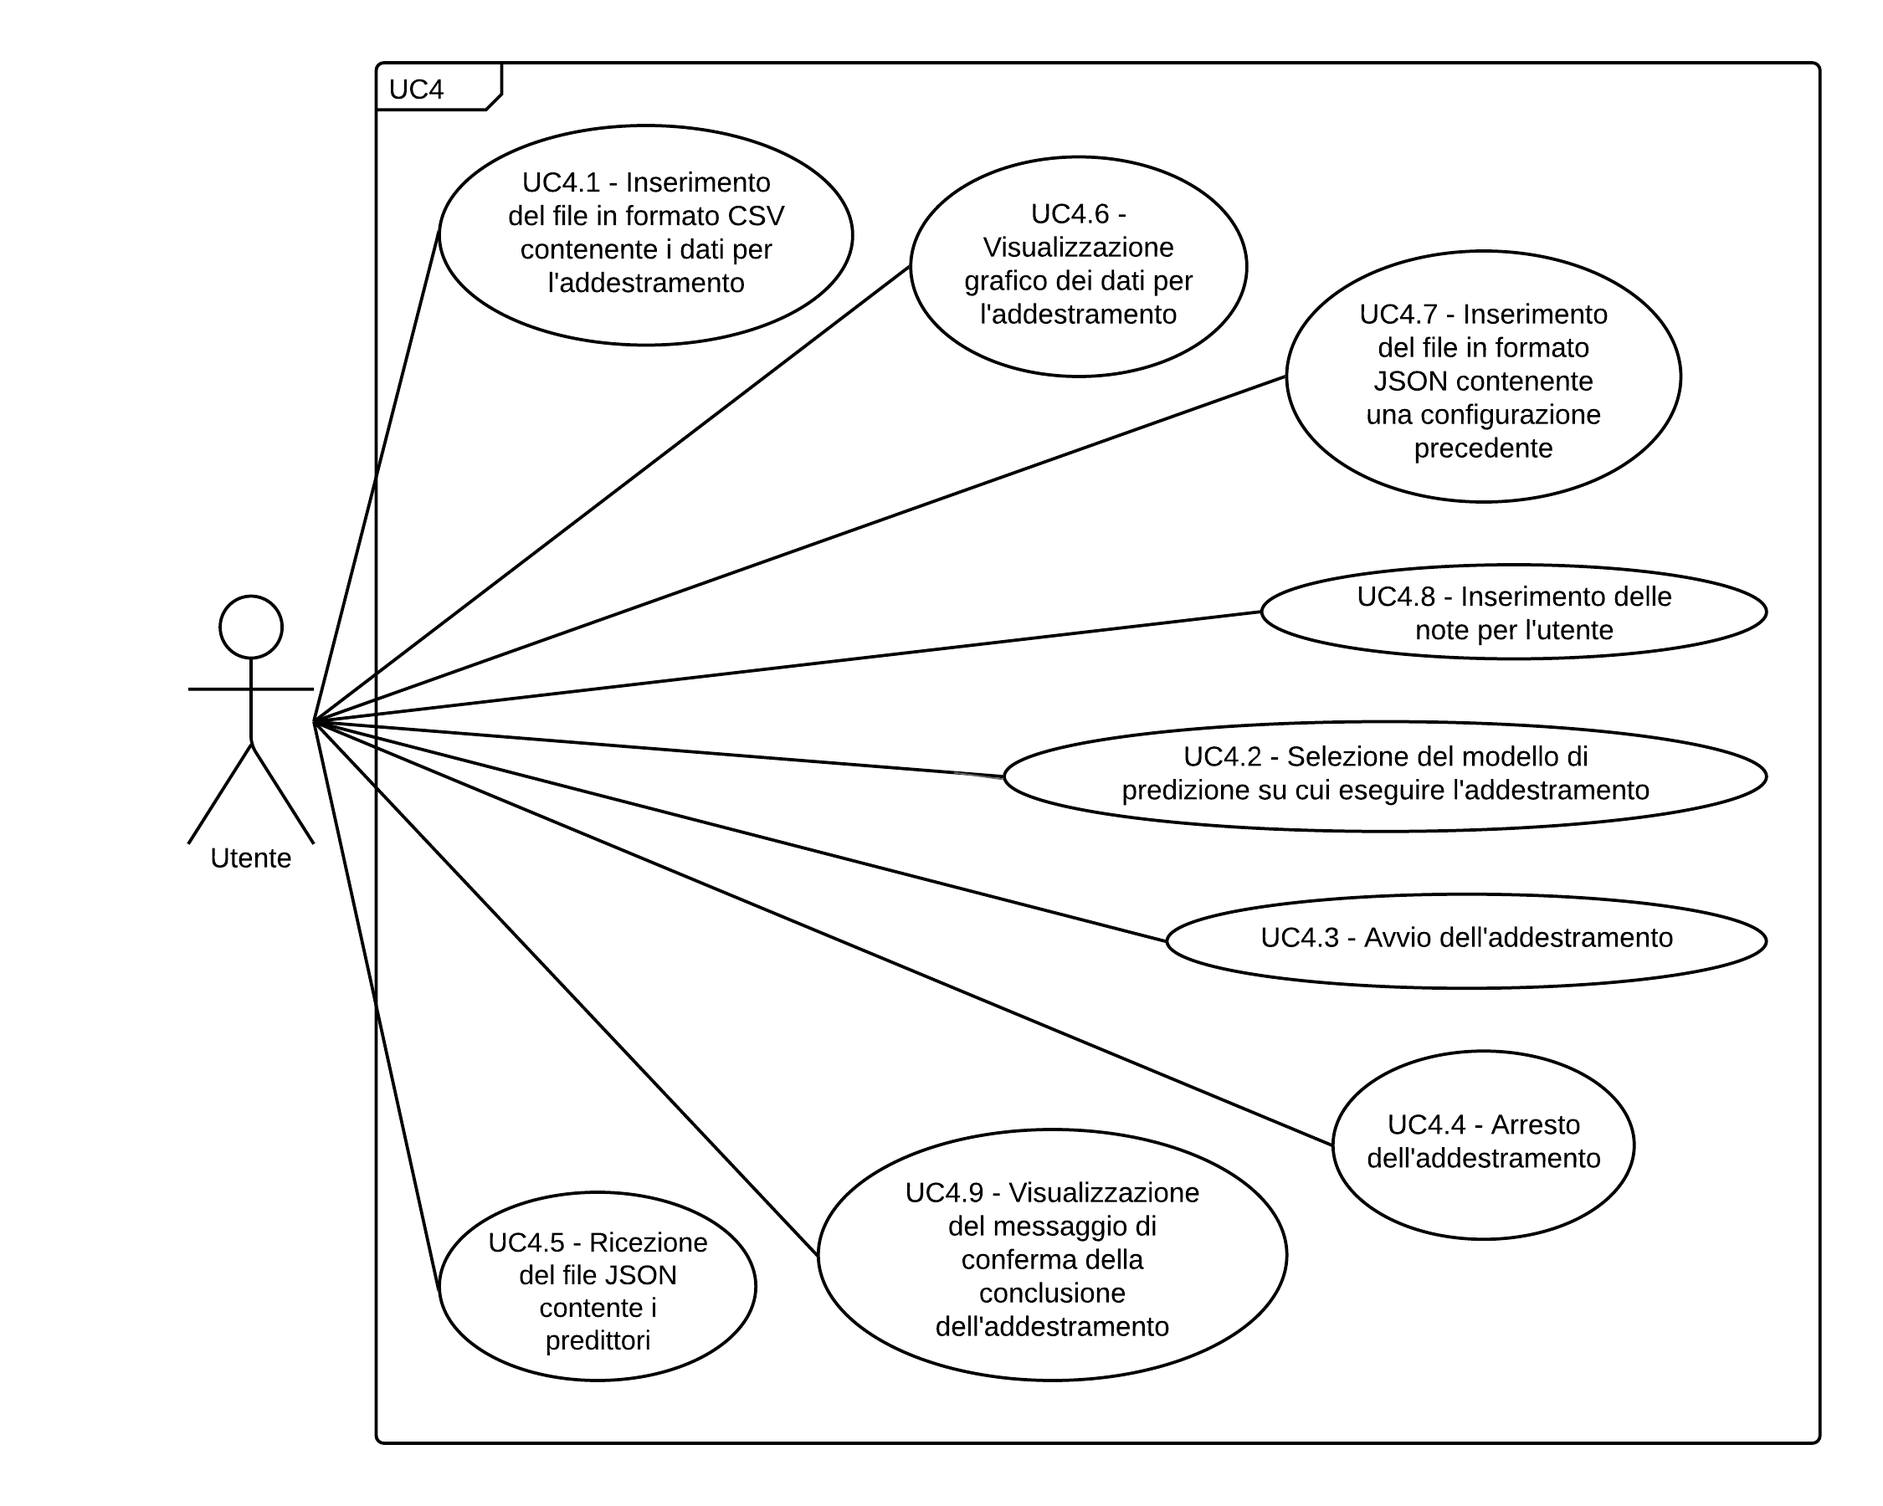
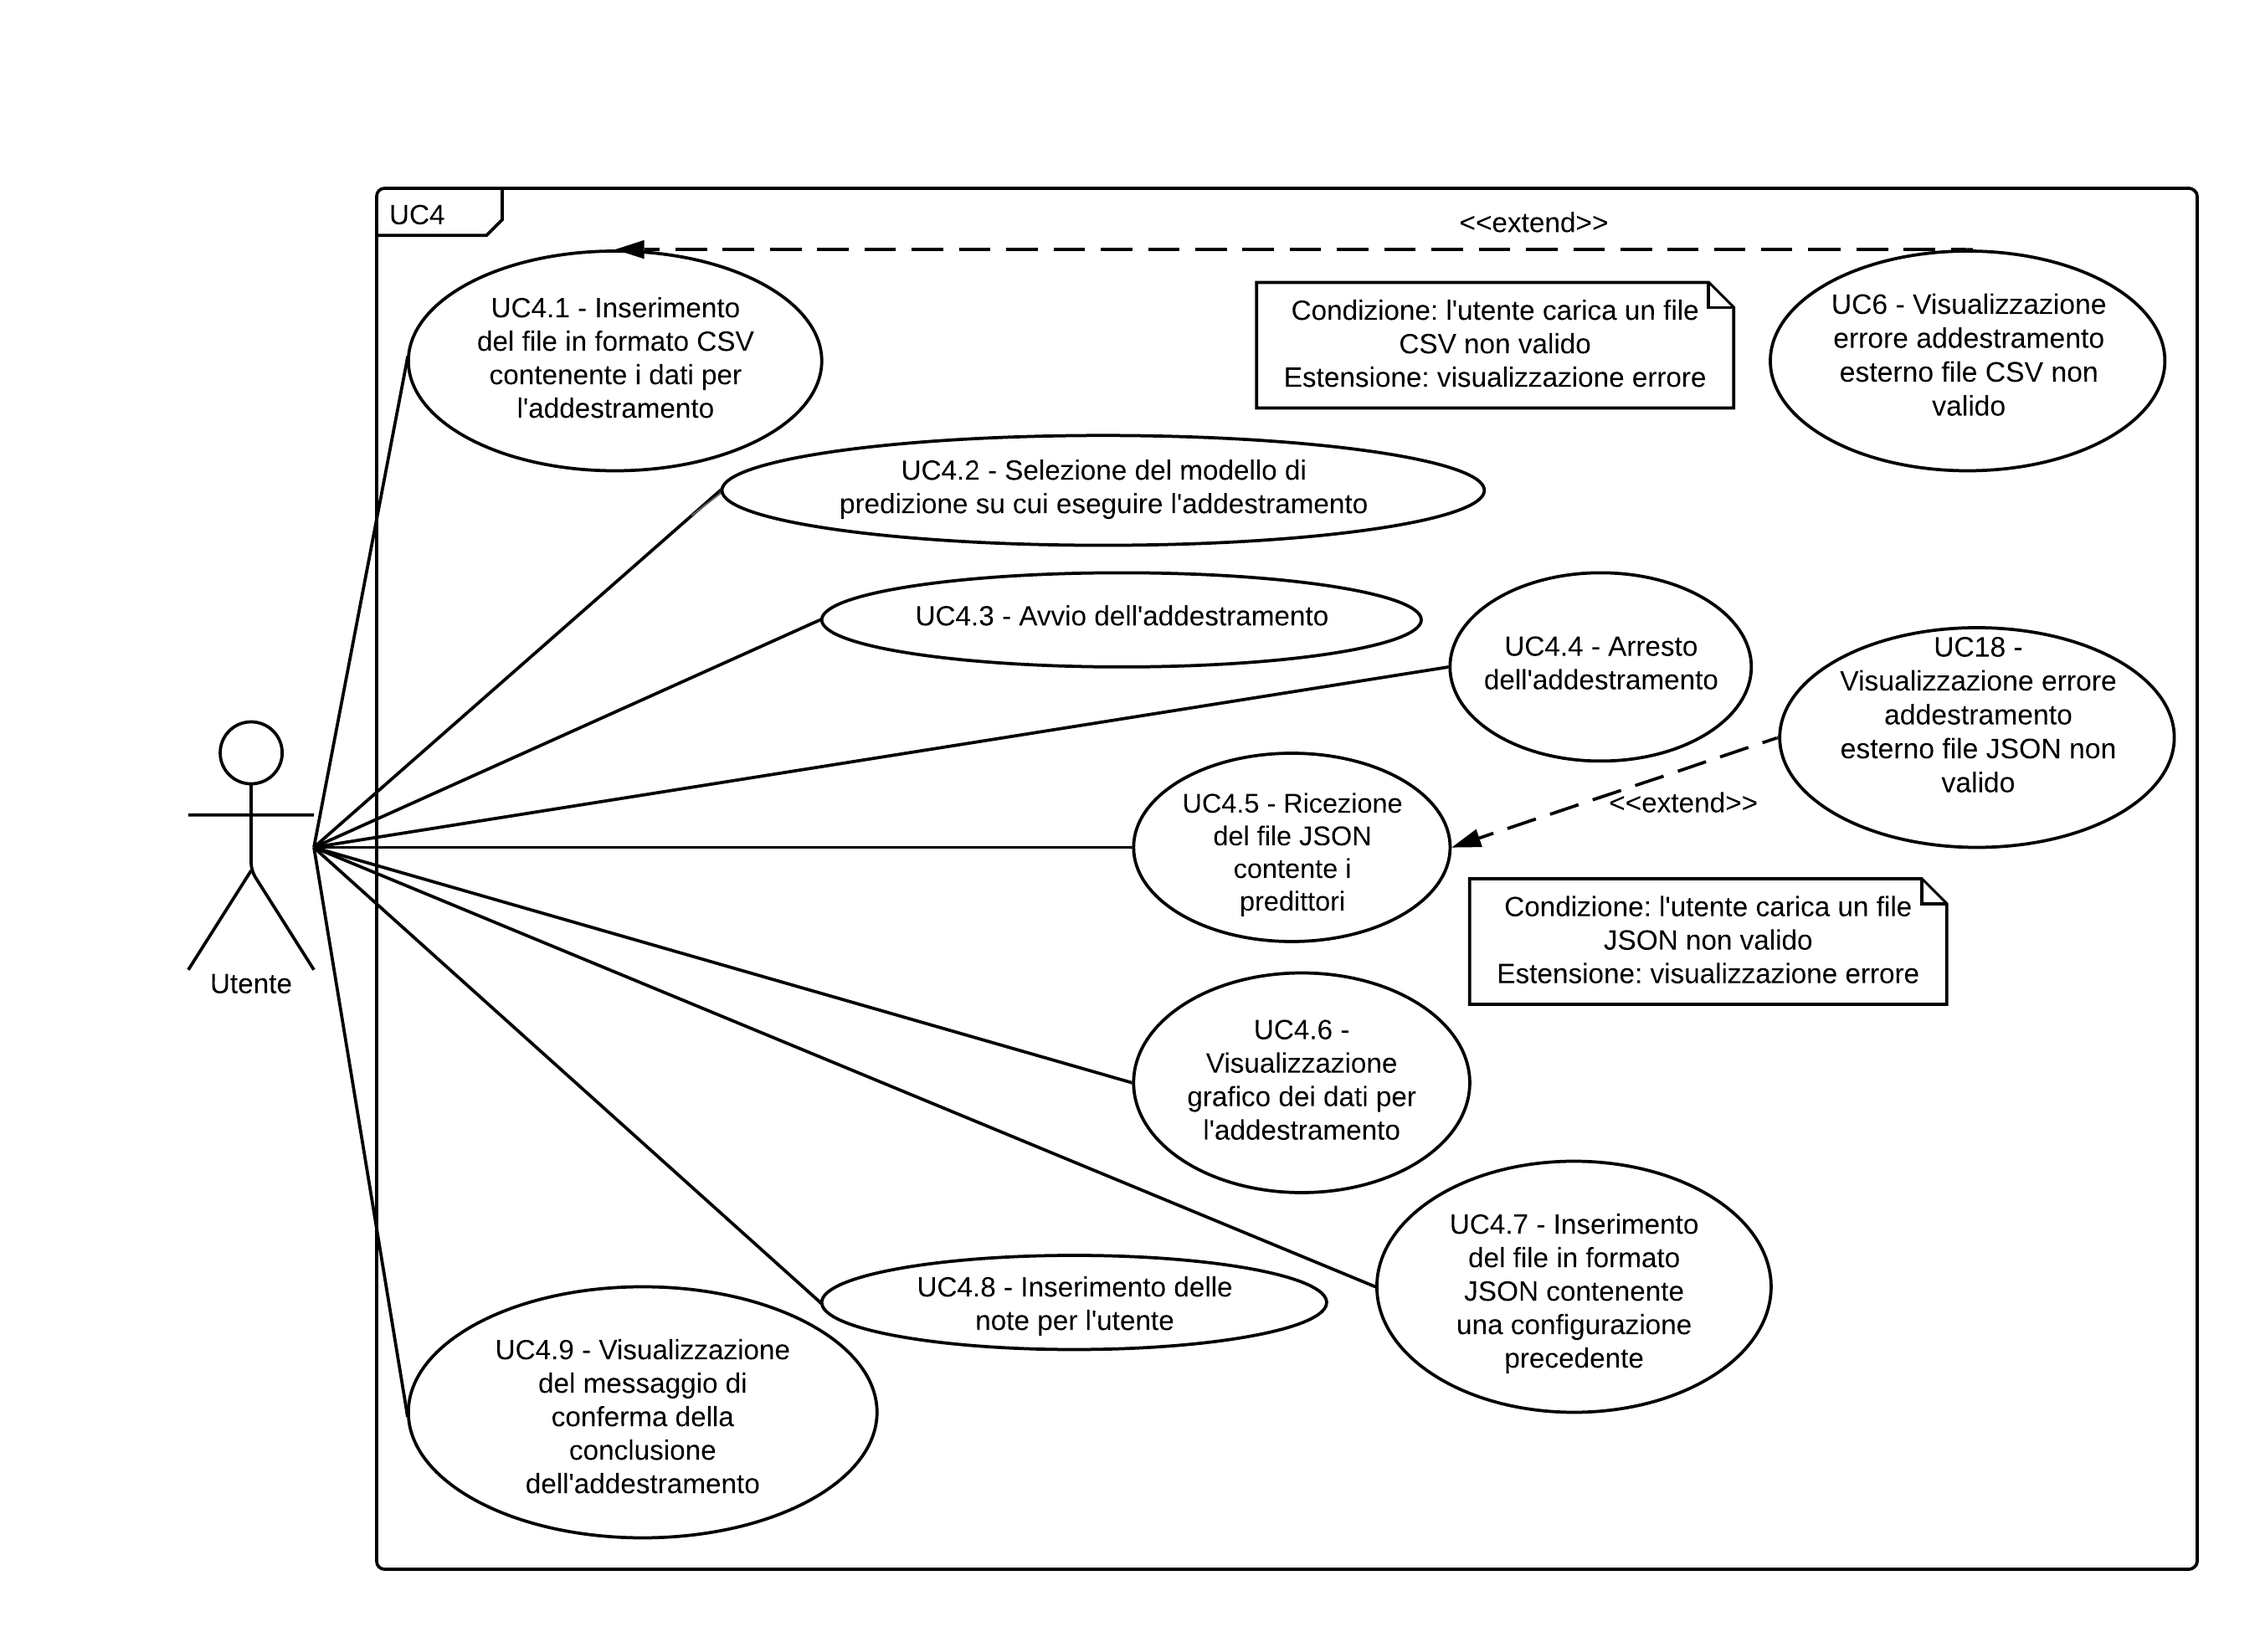
Fix ordine ed estensioni uc 1 e 4

diff --git a/03-RQ/Esterni/Analisi_dei_requisiti/res/uc4-addestramento_esterno.tex b/03-RQ/Esterni/Analisi_dei_requisiti/res/uc4-addestramento_esterno.tex
@@ -27,11 +27,6 @@
             \item ricezione del file JSON contenente i predittori (UC4.5);
             \item visualizzazione del messaggio di conferma della conclusione dell'addestramento (UC4.9). 
         \end{enumerate}
-    \item \textbf{Estensioni}:
-	    \begin{enumerate}
-	    	\item se il caricamento del file CSV non è avvenuto con successo viene visualizzato un messaggio di errore (UC18);
-	    	\item se il caricamento del file JSON non è avvenuto con successo viene visualizzato un messaggio di errore (UC6).
-	    \end{enumerate}
 \end{itemize}
 
 \subsubsection{UC4.1 - Inserimento del file in formato CSV contenente i dati per l'addestramento}
@@ -42,7 +37,11 @@
     \item \textbf{Descrizione}: l'utente inserisce un file in formato CSV contenente i dati per l'addestramento nell'applicazione esterna;
     \item \textbf{Precondizioni}: l'utente è autenticato nel sistema software Grafana\glo;
     \item \textbf{Postcondizioni}: l'utente ha inserito correttamente il file in formato CSV contenente i dati per l'addestramento;
-    \item \textbf{Scenario principale}: l'utente inserisce il file in formato CSV contenente i dati per l'addestramento.
+    \item \textbf{Scenario principale}: l'utente inserisce il file in formato CSV contenente i dati per l'addestramento;
+    \item \textbf{Estensioni}:
+	\begin{enumerate}
+		\item se il caricamento del file CSV non è avvenuto con successo viene visualizzato un messaggio di errore (UC6);
+	\end{enumerate}
 \end{itemize}
 
 \subsubsection{UC4.2 - Selezione del modello di predizione su cui eseguire l'addestramento}
@@ -55,10 +54,10 @@
 	\item \textbf{Postcondizioni}: il modello di predizione è stato selezionato correttamente;
 	\item \textbf{Scenario principale}: l'utente seleziona un modello di predizione su cui eseguire l'addestramento tra SVM\glosp e RL\glo;
 	\item \textbf{Specializzazione}:
-	\begin{itemize}
+	\begin{enumerate}
 		\item selezione del modello di predizione SVM\glosp (UC4.10);
 		\item selezione del modello di predizione RL\glosp (UC4.11).
-	\end{itemize}   
+	\end{enumerate}   
 \end{itemize}
 
 \subsubsection{UC4.3 - Avvio dell'addestramento}
@@ -112,7 +111,11 @@
 	\item \textbf{Descrizione}: l'utente inserisce nell'applicazione esterna un file in formato JSON che contiene i dati di una configurazione per addestrare nuovamente l'algoritmo di predizione partendo con una configurazione precedente;
 	\item \textbf{Precondizioni}: l'utente è autenticato nel sistema software Grafana\glo;
 	\item \textbf{Postcondizioni}: il file in formato JSON contenente una configurazione precedente è stato inserito correttamente;
-	\item \textbf{Scenario principale}: l'utente inserisce il file in formato JSON contenente una configurazione precedente.
+	\item \textbf{Scenario principale}: l'utente inserisce il file in formato JSON contenente una configurazione precedente;
+	\item \textbf{Estensioni}:
+	\begin{enumerate}
+		\item se il caricamento del file JSON non è avvenuto con successo viene visualizzato un messaggio di errore (UC18);
+	\end{enumerate}
 \end{itemize}
 \subsubsection{UC4.8 - Inserimento delle note per l'utente}
 \begin{itemize}

diff --git a/03-RQ/Esterni/Analisi_dei_requisiti/res/uc1-addestramento_interno.tex b/03-RQ/Esterni/Analisi_dei_requisiti/res/uc1-addestramento_interno.tex
@@ -27,11 +27,6 @@
 			\item arresto dell'addestramento (UC1.4);
 			\item visualizzazione del messaggio di conferma della conclusione dell'addestramento (UC1.8).
 		\end{enumerate}
-	\item \textbf{Estensioni}:
-	\begin{itemize}
-		\item se il caricamento del file CSV non è avvenuto con successo, viene visualizzato un messaggio di errore (UC17);
-		\item se il caricamento del file JSON non è avvenuto con successo, viene visualizzato un messaggio di errore (UC3).
-	\end{itemize}
 \end{itemize}
 
 \subsubsection{UC1.1 - Inserimento del file in formato CSV contenente i dati per l'addestramento}
@@ -43,7 +38,11 @@
 	\item \textbf{Descrizione}: l'utente inserisce nel sistema Grafana\glosp il file in formato CSV che contiene dati per l'addestramento dell'algoritmo di predizione;
 	\item \textbf{Precondizioni}: l'utente è autenticato nel sistema software Grafana\glo;
 	\item \textbf{Postcondizioni}: il file in formato CSV contenente i dati per l'addestramento è stato inserito correttamente;
-	\item \textbf{Scenario principale}: l'utente inserisce il file in formato CSV contenente i dati per l'addestramento.
+	\item \textbf{Scenario principale}: l'utente inserisce il file in formato CSV contenente i dati per l'addestramento;
+	\item \textbf{Estensioni}:
+	\begin{enumerate}
+		\item se il caricamento del file CSV non è avvenuto con successo, viene visualizzato un messaggio di errore (UC3).
+	\end{enumerate}
 \end{itemize}
 
 \subsubsection{UC1.2 - Selezione del modello di predizione su cui eseguire l'addestramento}
@@ -57,10 +56,10 @@
 	\item \textbf{Postcondizioni}: l'utente ha selezionato correttamente il modello di predizione;
 	\item \textbf{Scenario principale}: l'utente seleziona un modello di predizione per eseguire l'addestramento tra SVM\glosp e RL\glo;
 	\item \textbf{Specializzazione}:
-	\begin{itemize}
+	\begin{enumerate}
 		\item selezione del modello di predizione SVM\glosp (UC1.9);
 		\item selezione del modello di predizione RL\glosp (UC1.10).
-	\end{itemize}
+	\end{enumerate}
 \end{itemize}
 
 \subsubsection{UC1.3 - Avvio dell'addestramento}
@@ -106,7 +105,11 @@
 	\item \textbf{Descrizione}: l'utente inserisce nel sistema Grafana\glosp un file JSON che contiene i dati di una configurazione precedente per addestrare nuovamente l'algoritmo di predizione;
 	\item \textbf{Precondizioni}: l'utente è autenticato nel sistema software Grafana\glo;
 	\item \textbf{Postcondizioni}: il file in formato JSON contenente una configurazione precedente è stato inserito correttamente;
-	\item \textbf{Scenario principale}: l'utente inserisce il file in formato JSON contenente una configurazione precedente.
+	\item \textbf{Scenario principale}: l'utente inserisce il file in formato JSON contenente una configurazione precedente;
+	\item \textbf{Estensioni}:
+	\begin{enumerate}
+		\item se il caricamento del file JSON non è avvenuto con successo, viene visualizzato un messaggio di errore (UC17).
+	\end{enumerate}
 \end{itemize}
 \subsubsection{UC1.7 - Inserimento delle note per l'utente}
 \begin{itemize}

diff --git a/03-RQ/Esterni/Analisi_dei_requisiti/res/uc9-associazione-nodi-flusso-dati.tex b/03-RQ/Esterni/Analisi_dei_requisiti/res/uc9-associazione-nodi-flusso-dati.tex
@@ -12,16 +12,12 @@
 	\item \textbf{Precondizioni}: l'utente è autenticato nel sistema software Grafana\glo, ha avviato il plug-in e ha caricato il file JSON con i dati di addestramento;
 	\item \textbf{Postcondizioni}: i predittori\glosp sono stati associati al flusso dati con successo;
 	\item \textbf{Scenario principale}: 
-		\begin{itemize}
+		\begin{enumerate}
 			\item selezione del predittore\glosp (UC9.1);
 			\item selezione del flusso dati (UC9.2);
 			\item collegamenti del predittore\glosp al flusso dati (UC9.3);
 			\item visualizzazione conferma collegamento del predittore\glosp al flusso dati (UC9.4).
-		\end{itemize}
-	\item \textbf{Estensioni}:
-		\begin{itemize}
-			\item se l'utente crea un abbinamento non valido tra un predittore\glosp ed il flusso dati viene visualizzato un messaggio di errore (UC10).
-		\end{itemize}
+		\end{enumerate}
 \end{itemize}
 
 \subsubsection{UC9.1 - Selezione del predittore}
@@ -57,7 +53,11 @@
 	\item \textbf{Descrizione}: l'utente esegue il collegamento del predittore\glosp al flusso dati;
 	\item \textbf{Precondizioni}: l'utente ha avviato correttamente il plug-in, ha selezionato il predittore\glosp ed il flusso dati;
 	\item \textbf{Postcondizioni}: l'utente ha collegato correttamente il predittore\glosp al flusso dati;
-	\item \textbf{Scenario principale}: l'utente seleziona il flusso dati a cui viene associato il predittore\glo.
+	\item \textbf{Scenario principale}: l'utente seleziona il flusso dati a cui viene associato il predittore\glo;
+	\item \textbf{Estensioni}:
+	\begin{enumerate}
+		\item se l'utente crea un abbinamento non valido tra un predittore\glosp ed il flusso dati viene visualizzato un messaggio di errore (UC10).
+	\end{enumerate}
 \end{itemize}
 
 \subsubsection{UC9.4 - Visualizzazione conferma collegamento del predittore al flusso dati}
